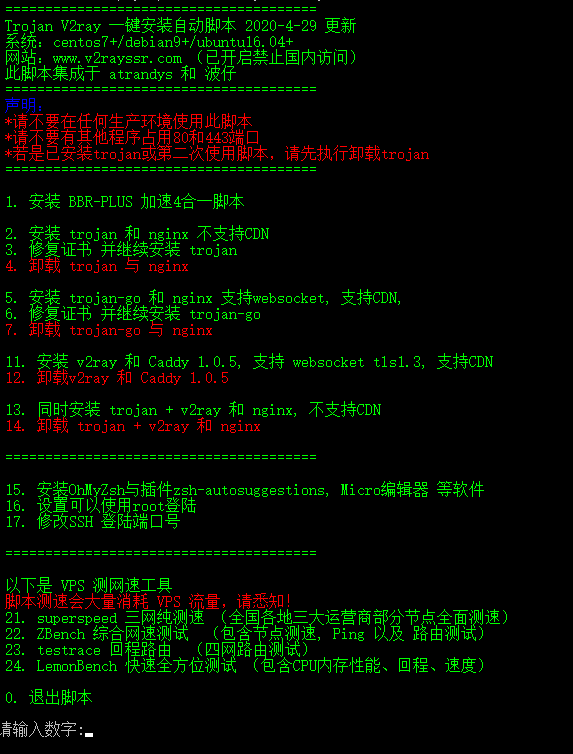
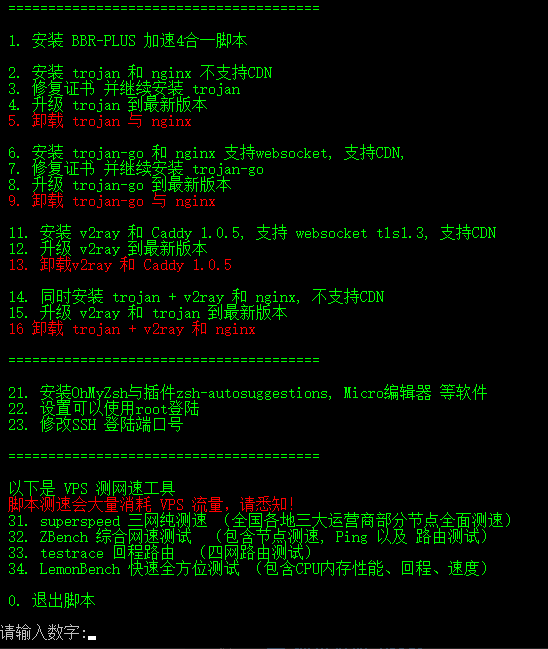
U-add upgrade

diff --git a/README.md b/README.md
@@ -6,28 +6,31 @@
 
 网站：www.v2rayssr.com （已开启禁止国内访问）
 
-脚本东拼西凑 需要感谢 秋水逸冰、Atrandys、V2ray官方等
+脚本感谢 秋水逸冰、Atrandys、V2ray官方等 Youtube：波仔分享
 
-Youtube：波仔分享
+支持 trojan 与 v2ray 共存
 
-默认会创建10个用户账号, trojan还能创建指定的密码, 方便用户使用.
+支持 trojan 和 trojan-go 安装
+
+手动配置trojan-go 可以支持CDN
+
+默认会创建10个用户账号, trojan 还能创建指定的密码, 方便用户使用.
 
 ====================================
 
 脚本安装命令
 
 ```bash
-curl -O https://raw.githubusercontent.com/jinwyp/Trojan/master/trojan_v2ray_install.sh && chmod +x trojan_v2ray_install.sh && ./trojan_v2ray_install.sh
+curl -O https://raw.githubusercontent.com/jinwyp/one_click_script/master/trojan_v2ray_install.sh && chmod +x trojan_v2ray_install.sh && ./trojan_v2ray_install.sh
 
 ```
 
 或
 
 ```bash
-wget --no-check-certificate https://raw.githubusercontent.com/jinwyp/Trojan/master/trojan_v2ray_install.sh && chmod +x trojan_v2ray_install.sh && ./trojan_v2ray_install.sh
+wget --no-check-certificate https://raw.githubusercontent.com/jinwyp/one_click_script/master/trojan_v2ray_install.sh && chmod +x trojan_v2ray_install.sh && ./trojan_v2ray_install.sh
 
 ```
-
 
 
 
@@ -36,14 +39,11 @@ wget --no-check-certificate https://raw.githubusercontent.com/jinwyp/Trojan/mast
 
 ## 使用说明 Usage 
 
-####
-
-
-1. 该步骤可省略. 如果是使用google cloud 谷歌云服务器，默认无法使用root账号登陆， 可以选择16 开启root用户登录. 建议使用root用户运行该脚本. 安装bbr plus 需要root权限, 默认认为使用root执行, 非root用户请手动添加sudo执行 ```sudo ./tcp.sh ```和 ```sudo ./trojan_v2ray_install.sh ``` 脚本.
+1. 该步骤可省略. 如果是使用google cloud 谷歌云服务器，默认无法使用root账号登陆， 可以选择22 开启root用户登录. 建议使用root用户运行该脚本. 安装bbr plus 需要root权限, 默认认为使用root执行, 非root用户请手动添加sudo执行 ```sudo ./tcp.sh ```和 ```sudo ./trojan_v2ray_install.sh ``` 脚本. （注意 证书申请也需要用root用户而不建议用sudo  [acme.sh文档说明](https://github.com/acmesh-official/acme.sh/wiki/sudo)  ).
 2. 安装 BBR plus. 运行脚本 ```./trojan_v2ray_install.sh ``` 选择1 然后选择2 安装 BBRplus版内核, 注意安装过程中会弹出大框的英文提示(下面有示例图)"安装linux内核有风险是否终止", 要选择" NO" 不终止. 安装完毕会重启VPS
 3. 使用BBRplus版加速. 重新登录VPS后, 重新运行脚本 ```./trojan_v2ray_install.sh ```  选择1 然后 选择7 使用BBRplus版加速. 
-4. 该步骤可省略. 选择15, 安装 oh-my-zsh. 这样以后登录有命令提示, 方便新手操作. 安装完成后请退出VPS, 命令为```exit```.  重新登录VPS后继续下面操作. 
-5. 安装 trojan 或 v2ray. 根据提示 重新运行脚本 ```./trojan_v2ray_install.sh ```  选2 安装trojan, 或选5 安装trojan-go, 或选11 安装v2ray, 或选13 同时安装trojan和v2ray.
+4. 该步骤可省略. 选择21, 安装 oh-my-zsh. 这样以后登录有命令提示, 方便新手操作. 安装完成后请退出VPS, 命令为```exit```.  重新登录VPS后继续下面操作. 
+5. 安装 trojan 或 v2ray. 根据提示 重新运行脚本 ```./trojan_v2ray_install.sh ```  选2 安装trojan, 或选6 安装trojan-go, 或选11 安装v2ray, 或选14 同时安装trojan和v2ray.
 
 
 6. 第一步安装 BBR plus 时出现的提示 "是否终止删除内核" 请选择 "NO". 就是要卸载掉目前的内核. 
